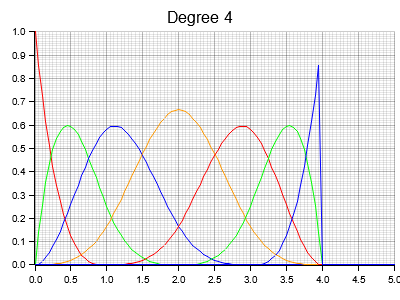
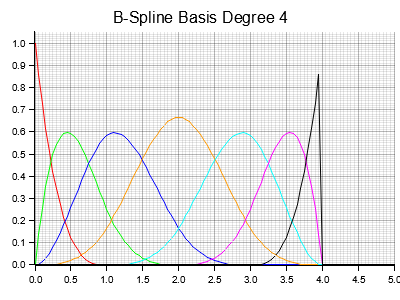
refine plot colors; expand readme

diff --git a/examples/bspline_basis_plot.rs b/examples/bspline_basis_plot.rs
@@ -2,7 +2,7 @@ use bsfun::bspline_basis;
 use plotters::{prelude::*, style::full_palette::ORANGE};
 
 fn main() -> Result<(), Box<dyn std::error::Error>> {
-    let colors = [RED, GREEN, BLUE, ORANGE];
+    let colors = [RED, GREEN, BLUE, ORANGE, CYAN, MAGENTA, BLACK];
 
     for degree in 0..4 {
         // Create a knot vector with degree + 1 repeated values at the start and end
@@ -18,13 +18,13 @@ fn main() -> Result<(), Box<dyn std::error::Error>> {
 
         let mut chart = ChartBuilder::on(&root)
             .caption(
-                format!("Degree {}", degree + 1),
+                format!("B-Spline Basis Degree {}", degree + 1),
                 ("sans-serif", 20).into_font(),
             )
             .margin(5)
             .x_label_area_size(30)
             .y_label_area_size(30)
-            .build_cartesian_2d(0f64..(degree + 2) as f64, 0f64..1f64)?;
+            .build_cartesian_2d(0f64..(degree + 2) as f64, 0f64..1.05f64)?;
 
         chart.configure_mesh().draw()?;
 

diff --git a/README.md b/README.md
@@ -2,14 +2,18 @@
 
 ## Basis Spline Fun(ctions)
 
-This is a super simple Rust library for working with basis splines and NURBS (Non-Uniform Rational B-Splines).
+This is a super simple Rust library for working with basis splines and [NURBS (Non-Uniform Rational B-Splines)](https://en.wikipedia.org/wiki/Non-uniform_rational_B-spline) with zero dependecies (besides `alloc::Vec`).
 
 It consists of only four functions:
 
 1. `bspline_basis()` Calculate the value of a basis spline at a given `t`
 2. `rational_bspline_basis()` Calculate the value of a rational basis spline at a given `t`
-3. `nurbs_curve_point()` Calculate the value of a NURBS at a given value `t`
+3. `nurbs_curve_point()` Calculate the value of a NURBS curve at a given value `t`
 4. `nurbs_surface_point()` Calculate the value of a NURBS surface at a given value pair `(u, v)`
+
+You could use `1` and `2` to build your own Splines. `3` and `4` are just functions for calculating the value of a NURBS curve or surface for a set of parameters.
+
+Since this library does not provide any structs or traits you have take care of the proper shapes of knots, weights and control points for any given degree yourself. You may find a more practical NURBS implementation in the libraries `truck` and `capstan`.
 
 ## Visualization of B-Spline Basis Functions up to Degree 4
 
